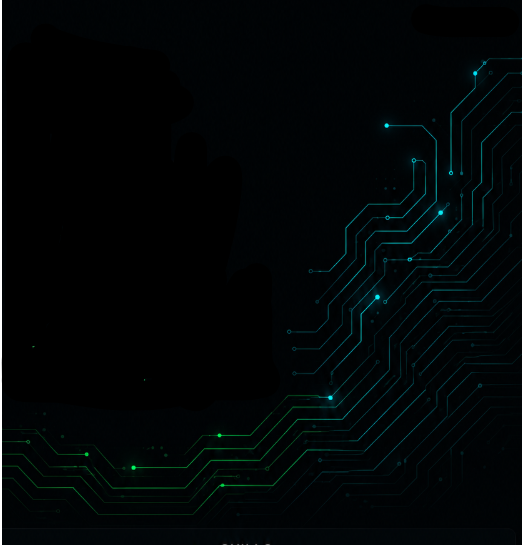
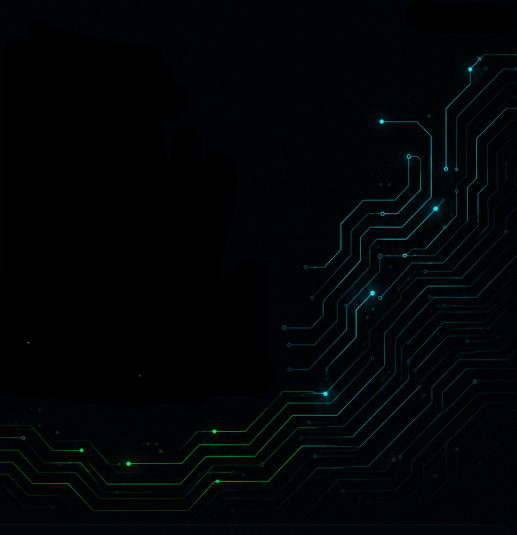
updated buttons

diff --git a/App.js b/App.js
@@ -17,7 +17,9 @@ const App = () => {
   const [isLoading, setIsLoading] = useState(true);
   const [loadingStep, setLoadingStep] = useState(0);
   const [isViewProjectHovered, setViewProjectHovered] = useState(false)
+  const [isProjectText , setProjectText] = useState(false)
   const [isConcatHovered, setConcatHovered] = useState(false)
+  const [isConcatText , setConcatText] = useState(false)
 
   const openLink = (url) => {
     Linking.openURL(url);
@@ -105,37 +107,36 @@ const App = () => {
         <View style={styles.buttonRow}>
 
           <Pressable
-            style={({ pressed }) => [
-              styles.greenButton,
-              pressed && styles.buttonPressed,
-            ]}
             onPress={() =>
               openLink('https://github.com/shashwat-dev')
             }
-            onHoverIn={()=>setConcatHovered(true)}
-            onHoverOut={()=>setConcatHovered(false)}
+            onHoverIn={()=>{setViewProjectHovered(true);setProjectText(true)}}
+            onHoverOut={()=>{setViewProjectHovered(null);setProjectText(false)}}
+            style={({pressed})=>[
+              styles.greenButton,
+              isViewProjectHovered && {backgroundColor:"#30a341", borderWidth:0},
+              pressed && {backgroundColor:"#30a341",opacity:0.3, borderWidth:2}
+            ]}
           ><Text style={styles.githubIcon}>●</Text>
-            <Text style={styles.greenButtonText}>
+            <Text style={[styles.greenButtonText, isProjectText && {color:"#ffffff"}]}>
               VIEW PROJECTS
             </Text>
           </Pressable>
 
           <Pressable
-            style={({ pressed }) => [
+              onPress={()=>openLink('mailto:shashwat.sharma.dev@gmail.com')}
+              onHoverIn={()=>{setConcatHovered(true);setConcatText(true)}}
+              onHoverOut={()=>{setConcatHovered(null);setConcatText(false)}}
+            style={({pressed})=>[
               styles.cyanButton,
-              pressed && styles.buttonPressed,
+              isConcatHovered && {backgroundColor:"#00d9ff"},
+              pressed && {backgroundColor:"#c6d0d2",opacity: 0.3, borderWidth:2},
             ]}
-            onPress={() =>
-              openLink(
-                'mailto:shashwat.sharma.dev@gmail.com'
-              )
-            }
           >
-            <Text style={styles.arrowIcon}>
+            <Text style={[styles.arrowIcon,isConcatText && {color:"#ffffff"}]}>
               ↓
             </Text>
-
-            <Text style={styles.cyanButtonText}>
+            <Text style={[styles.cyanButtonText,isConcatText && {color:"#ffffff"}]}> 
               CONNECT
             </Text>
           </Pressable>
@@ -154,6 +155,10 @@ const App = () => {
 
       </View>
 
+    </View>
+
+    <View style={styles.cardLeftHOlder}>
+            <Text style={{color:"#0000"}}>●</Text>
     </View>
   </ScrollView>
 </View>
@@ -199,11 +204,6 @@ const styles = StyleSheet.create({
     backgroundColor: COLORS.bg,
   },
 
-
-  /* =========================
-     HERO
-     ========================= */
-
   hero: {
     width: '100%',
     height: 660,
@@ -219,7 +219,7 @@ const styles = StyleSheet.create({
     right: 0,
     bottom: 0,
     width: '100%',
-    height: '100%',
+    height: '92%',
   },
 
   heroOverlay: {
@@ -283,10 +283,6 @@ const styles = StyleSheet.create({
   },
 
 
-  /* =========================
-     BUTTONS
-     ========================= */
-
   buttonRow: {
     flexDirection: 'row',
     gap: 16,
@@ -295,15 +291,12 @@ const styles = StyleSheet.create({
   greenButton: {
     height: 48,
     minWidth: 165,
-
     borderWidth: 1,
     borderColor: COLORS.green,
     borderRadius: 5,
-
     flexDirection: 'row',
     alignItems: 'center',
     justifyContent: 'center',
-
     paddingHorizontal: 18,
 
     backgroundColor: 'rgba(0, 255, 102, 0.025)',
@@ -312,30 +305,26 @@ const styles = StyleSheet.create({
   cyanButton: {
     height: 48,
     minWidth: 140,
-
     borderWidth: 1,
     borderColor: COLORS.cyan,
     borderRadius: 5,
-
     flexDirection: 'row',
     alignItems: 'center',
     justifyContent: 'center',
-
     paddingHorizontal: 18,
-
     backgroundColor: 'rgba(0, 217, 255, 0.025)',
   },
 
   greenButtonText: {
     color: COLORS.green,
-    fontSize: 13,
+    fontSize: 14,
     fontWeight: '700',
     letterSpacing: 0.5,
   },
 
   cyanButtonText: {
     color: COLORS.cyan,
-    fontSize: 13,
+    fontSize: 14,
     fontWeight: '700',
     letterSpacing: 0.5,
   },
@@ -353,15 +342,8 @@ const styles = StyleSheet.create({
     lineHeight: 27,
   },
 
-  buttonPressed: {
-    opacity: 0.55,
-    transform: [{ scale: 0.98 }],
-  },
 
-
-  /* =========================
-     SYSTEM STATUS
-     ========================= */
+ cardLeftHOlder:{},
 
   systemStatus: {
     position: 'absolute',

diff --git a/index.js b/index.js
@@ -1,5 +1,5 @@
 import { registerRootComponent } from 'expo';
 
 import App from './App';
-//a
+
 registerRootComponent(App);
